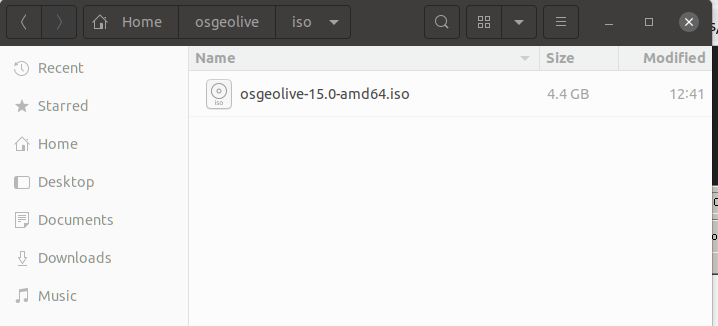
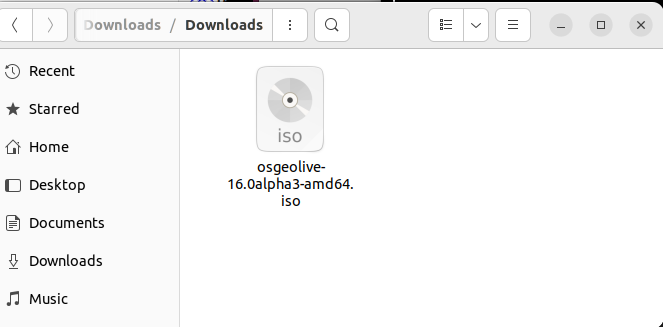
adjustments & images to general-intro

diff --git a/docs/general-intro/osgeolive.rst b/docs/general-intro/osgeolive.rst
@@ -25,11 +25,8 @@ This workshop uses OSGeoLive on VirtualBox.
 
 .. contents:: Chapter Contents
 
-OSGeoLive on a VirtualBox
--------------------------------------------------------------------------------
-
 Install `VirtualBox <https://www.virtualbox.org/>`__.
-...............................................................................
+-------------------------------------------------------------------------------
 
 This is a general description on how to install VirtualBox.
 Complete details about installation can be found on the `VirtualBox
@@ -61,6 +58,8 @@ Install Virtual box using:
 More detailed and up to date information can be found `here
 <https://www.virtualbox.org/wiki/Linux_Downloads>`__
 
+OSGeoLive on a VirtualBox
+-------------------------------------------------------------------------------
 
 Download OSGeoLive @OSGeoLive_VERSION@
 ...............................................................................
@@ -73,49 +72,114 @@ For other installations visit `OSgeoLive
    The images on this section might not correspond to the VirtualBox or
    OSGeoLive version installed on your system, but the workflow is similar.
 
-* Download *osgeolive-@OSGeoLive_VERSION@rc1-amd64.iso* or the latest release
-  available.
+From https://download.osgeo.org/livedvd/releases/@OSGeoLive_VERSION@/
+Download *osgeolive-@OSGeoLive_VERSION@alpha3-amd64.iso*
 
-  From https://download.osgeo.org/livedvd/releases/@OSGeoLive_VERSION@/
+.. image:: /images/osgeolive/get_osgeolive_latest.png
 
-  .. image:: /images/osgeolive/downloadOSGeoLive.png
-       :width: 150px
+Download is saved on Downloads directory.
 
-* Open VirtualBox and click :menuselection:`New`
+.. image:: /images/osgeolive/downloadOSGeoLive.png
 
-  .. image:: /images/osgeolive/install-vm.png
-       :width: 150px
+Create the virtual machine
+...............................................................................
 
-* Fill required info
+Open the Virtual Box
 
-  :name: osgeolive @OSGeoLive_VERSION@
-  :Machine Folder: choose the appropriate location
-  :Type: choose the appropriate operating system
-  :Version: choose the 64 bit appropiate version
+.. image:: /images/osgeolive/install-vm.png
 
-  .. image:: /images/osgeolive/install-1.png
-      :width: 150px
+Click on ``New`` and fill with the following information
 
-* Create a dynamically allocated storage hard disk
+* **Name** OSGeoLive @OSGeoLive_VERSION@
+* **Type** Linux
+* **Version** Ubuntu (64-bit)
+* **Memory size** 4096
+* **Hard disk** Create a virtual hard disk now
 
-  .. image:: /images/osgeolive/install-2.png
-      :width: 150px
+.. image:: /images/osgeolive/createVirtualMachine.png
 
-* Choose storage from the virtual box traits
+Click on ``Create`` and fill with the following information
 
-  .. image:: /images/osgeolive/install-3.png
-      :width: 150px
+* **File location** Choose a suitable location for the Virtual Hard Disk
+* **File size** 10.0GB
+* **Hard disk file type** VDI (VirtualBox Disk image)
+* **Storage on physical hard disk** Dynamically allocated
 
-* Choose the empty disk and click on the Optical drive
+.. image:: /images/osgeolive/createVirtualHardDisk.png
 
-  Select the `iso` file
+Install OSGeoLive's ISO
+...............................................................................
 
-  .. image:: /images/osgeolive/install-4.png
-      :width: 150px
+On Storage it reads:
 
-* The virtual drive should look like this
+:Controller: IDE
+:IDE Secondary Device 0: [Optical Drive] empty
 
-  .. image:: /images/osgeolive/install-5.png
-      :width: 150px
+.. image:: /images/osgeolive/afterCreateVM.png
+
+Choose ``Storage`` from the virtual box traits and clink on ``Empty``
+
+.. image:: /images/osgeolive/storageWithEmpty.png
+
+Click on the small disk icon and select **Choose/Create a Virtual Disk**
+
+.. image:: /images/osgeolive/chooseVirtualDisk.png
+
+Navigate to the location where the ISO was installed
+
+.. image:: /images/osgeolive/chooseOSGeoLiveISO.png
+
+Instead of empty, now it has the ISO installed
+
+.. image:: /images/osgeolive/withISOinstalled.png
+
+The installation now reads:
+
+:Controller: IDE
+:IDE Secondary Device 0: [Optical Drive] osgeolive-10.0alpha3-amd64.iso (4.13
+                         GB)
+
+.. image:: /images/osgeolive/previewOsgeoLive.png
+
+Start OSGeoLive
+...............................................................................
+
+Click on ``Start`` button, and click on ``capture``, to capture the mouse
+movements
+
+.. image:: /images/osgeolive/captureMouse.png
+
+Click on ``Try or Install Lubuntu``
+
+.. image:: /images/osgeolive/chooseTryLubuntu.png
 
 .. note:: OSGeoLive's account is ``user`` and password is ``user``
+
+After a few seconds OSGeoLive will start
+
+.. image:: /images/osgeolive/osgeoliveStarts.png
+
+
+.. Note:: OSGeoLive’s account is ``user`` and password is ``user``
+
+
+
+
+Ubuntu installation
+-------------------------------------------------------------------------------
+
+Update sources to include postgresql ::
+
+  curl https://www.postgresql.org/media/keys/ACCC4CF8.asc | sudo apt-key add -
+  sudo sh -c 'echo "deb http://apt.postgresql.org/pub/repos/apt/ \
+      $(lsb_release -cs)-pgdg main" > /etc/apt/sources.list.d/pgdg.list'
+
+Install PostgrSQL, PostGIS and pgRouting ::
+
+  sudo apt-get update
+  sudo apt-get install -y \
+    osm2pgrouting \
+    postgresql-15 \
+    postgresql-15-postgis-3 \
+    postgresql-15-postgis-3-scripts \
+    postgresql-15-pgrouting

diff --git a/docs/general-intro/introduction.rst b/docs/general-intro/introduction.rst
@@ -60,19 +60,24 @@ Aknowledments
   :alt: Paragon Corporation
   :target: https://www.paragoncorporation.com/
 
-.. rubric:: Developers of @WORKSHOP_AREA@ workshop:
+.. rubric:: Developers & presenters of @WORKSHOP_AREA@ workshop:
 
 * *Vicky Vergara* Is a freelance developer from Mexico. She's the core developer
   of pgRouting project and GSoC Mentor. OSGeo Charter member.
+
+* *Ramón Ríos* Is a freelance developer from Mexico.  Lead engenieer for
+  ParkUpFront
 
 
 .. rubric:: Past and present tutors and developers
 
 Daniel Kastl,
+José Ríos,
 Ko Nagase,
 Stephen Woodbridge,
 Swapnil Joshi,
 Rajat Shinde,
+Ramón Ríos,
 Rohith Reddy,
 Vicky Vergara
 

diff --git a/docs/index.rst b/docs/index.rst
@@ -20,8 +20,8 @@ Workshop introduction
    :maxdepth: 2
 
    general-intro/introduction.rst
-   general-intro/overview.rst
    general-intro/osgeolive.rst
+   general-intro/overview.rst
 
 Basic
 ===============================================================================
